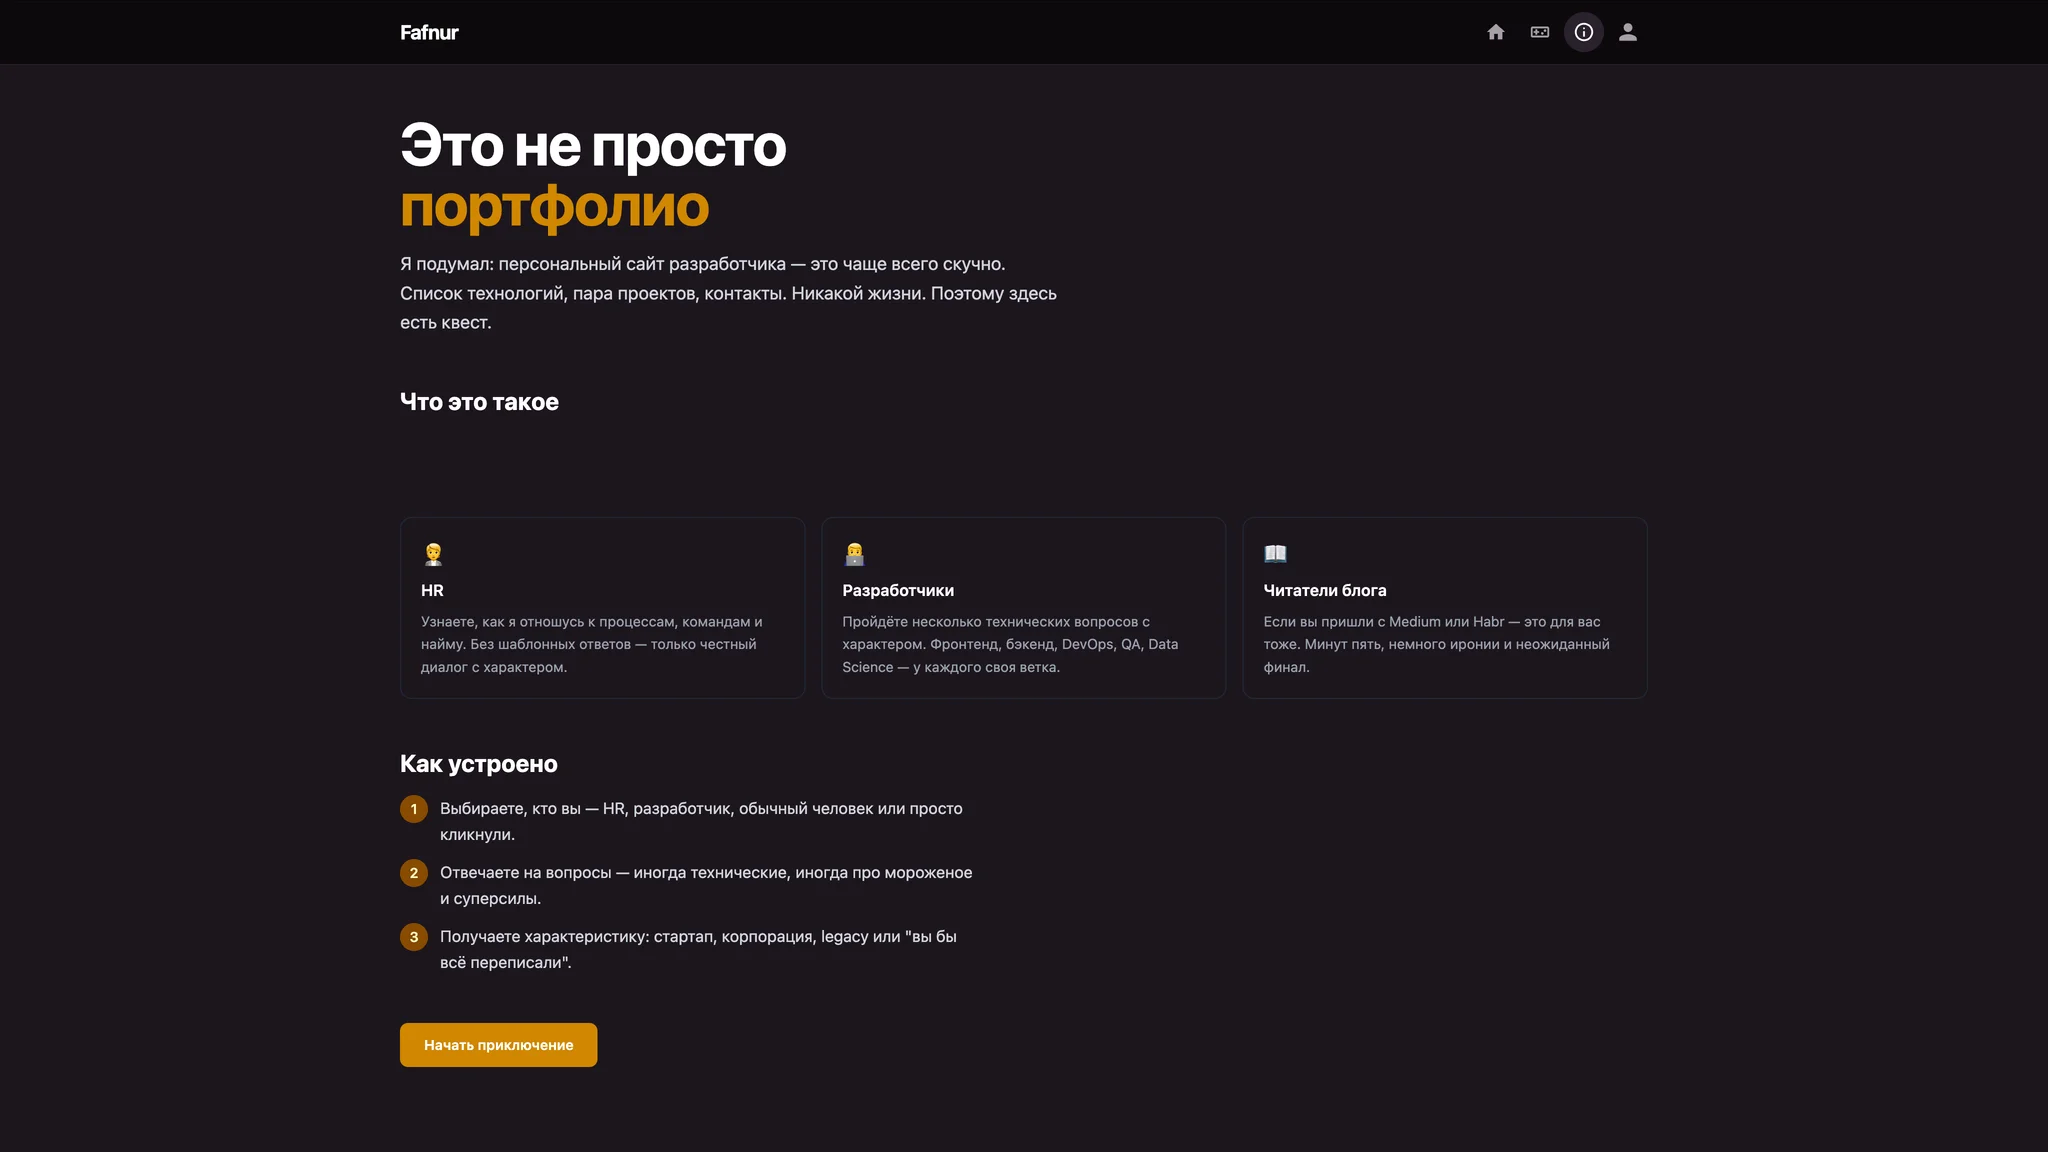
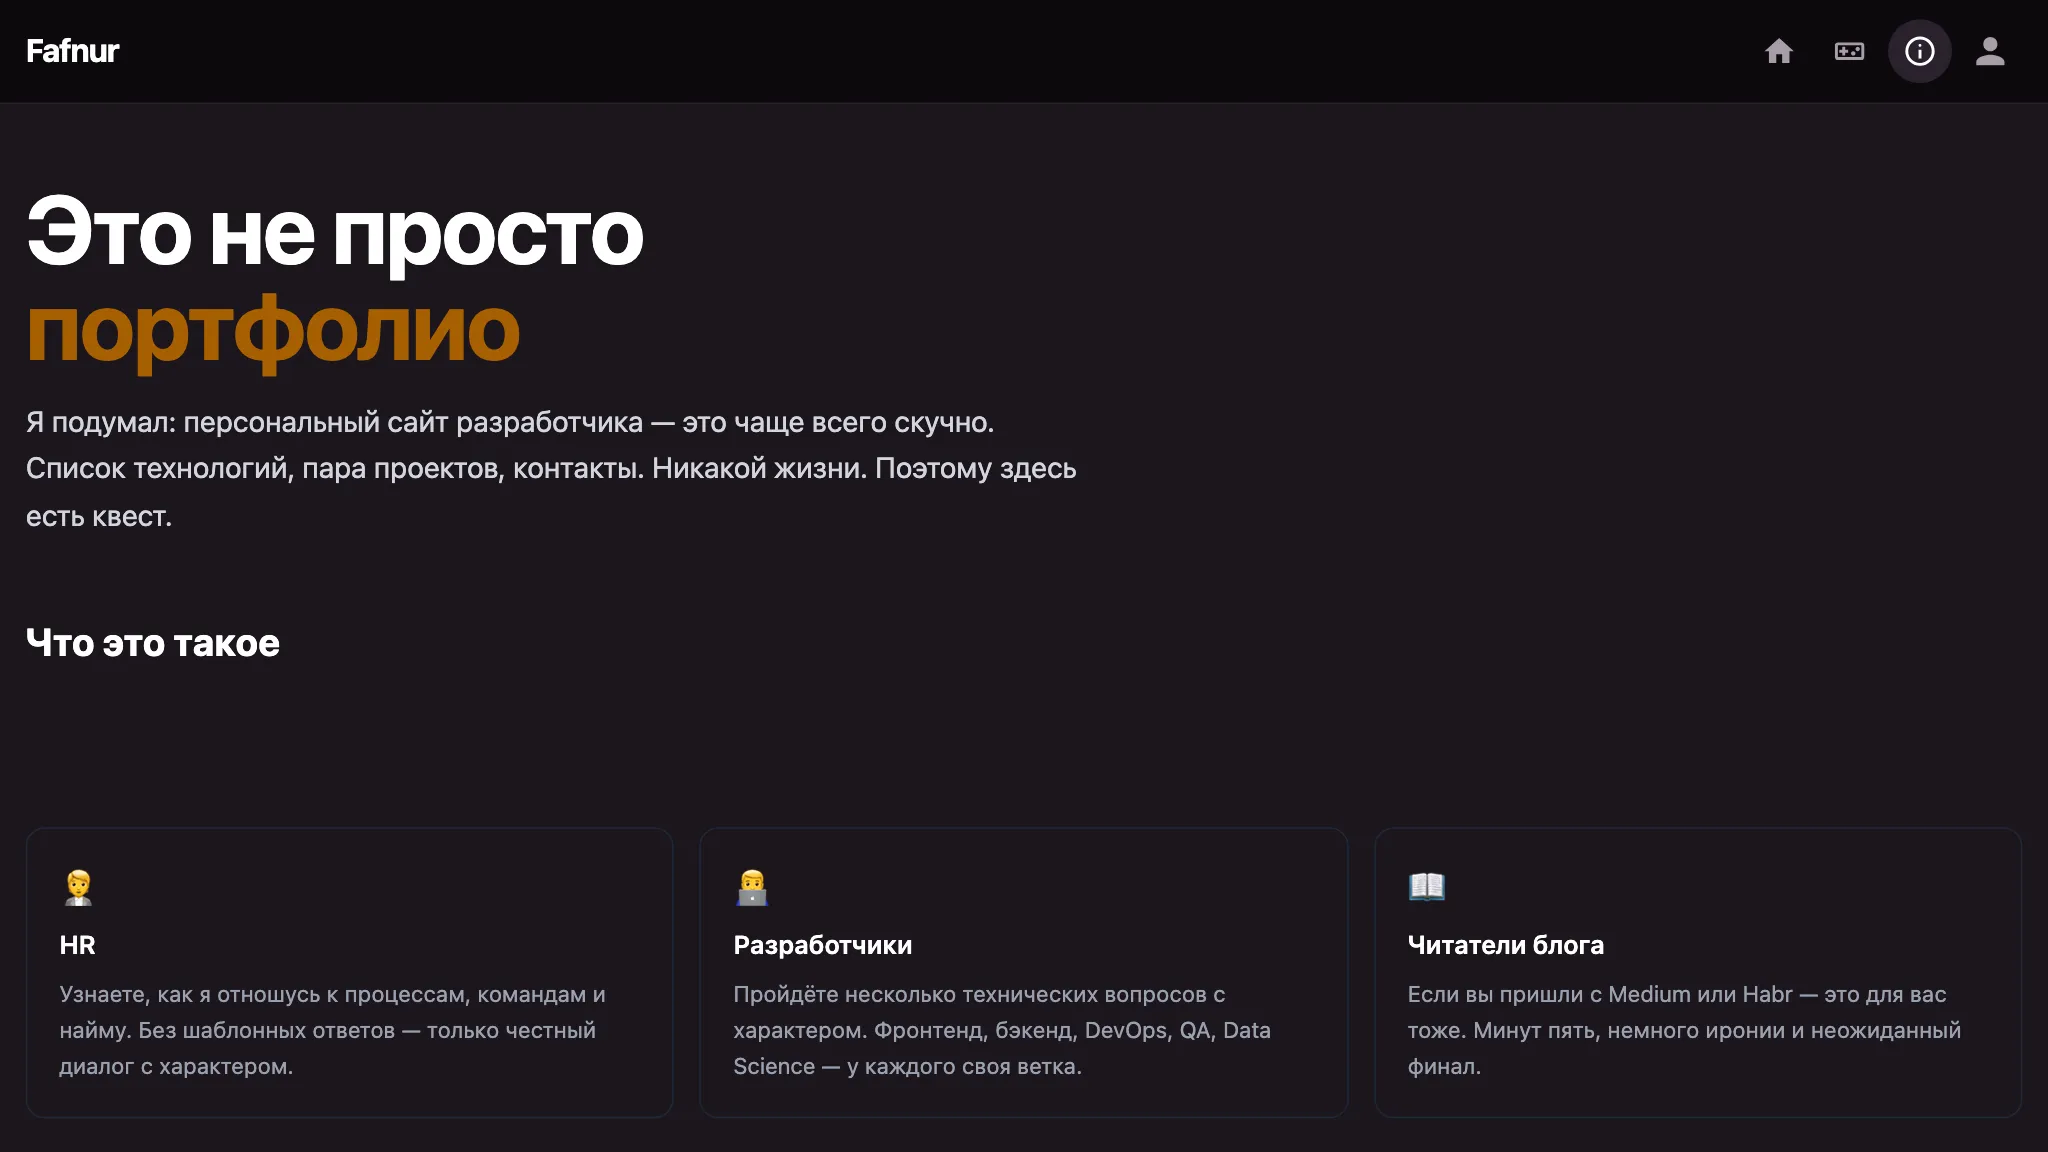
[og] Add OG image generator
`yarn og` builds the site and screenshots home, adventure and about in
the dark theme into 2048×1152 WebP OG images. Regenerated all three.

diff --git a/.claude/CLAUDE.md b/.claude/CLAUDE.md
@@ -53,9 +53,13 @@ yarn e2e             # Playwright against the built static site
 yarn check           # lint test build e2e — a task is done when it is green
 yarn affected        # the same for affected projects
 yarn format          # Prettier
+yarn og              # build + regenerate OG images of home, adventure and about
 ```
 
 The Nx TUI is off in `nx.json` — no need for `--no-tui`.
+
+After changing the text of the home, adventure or about page, run `yarn og` and commit the updated images together
+with the change. `game.webp` (a frame from the middle of the game) is made by hand.
 
 ---
 
